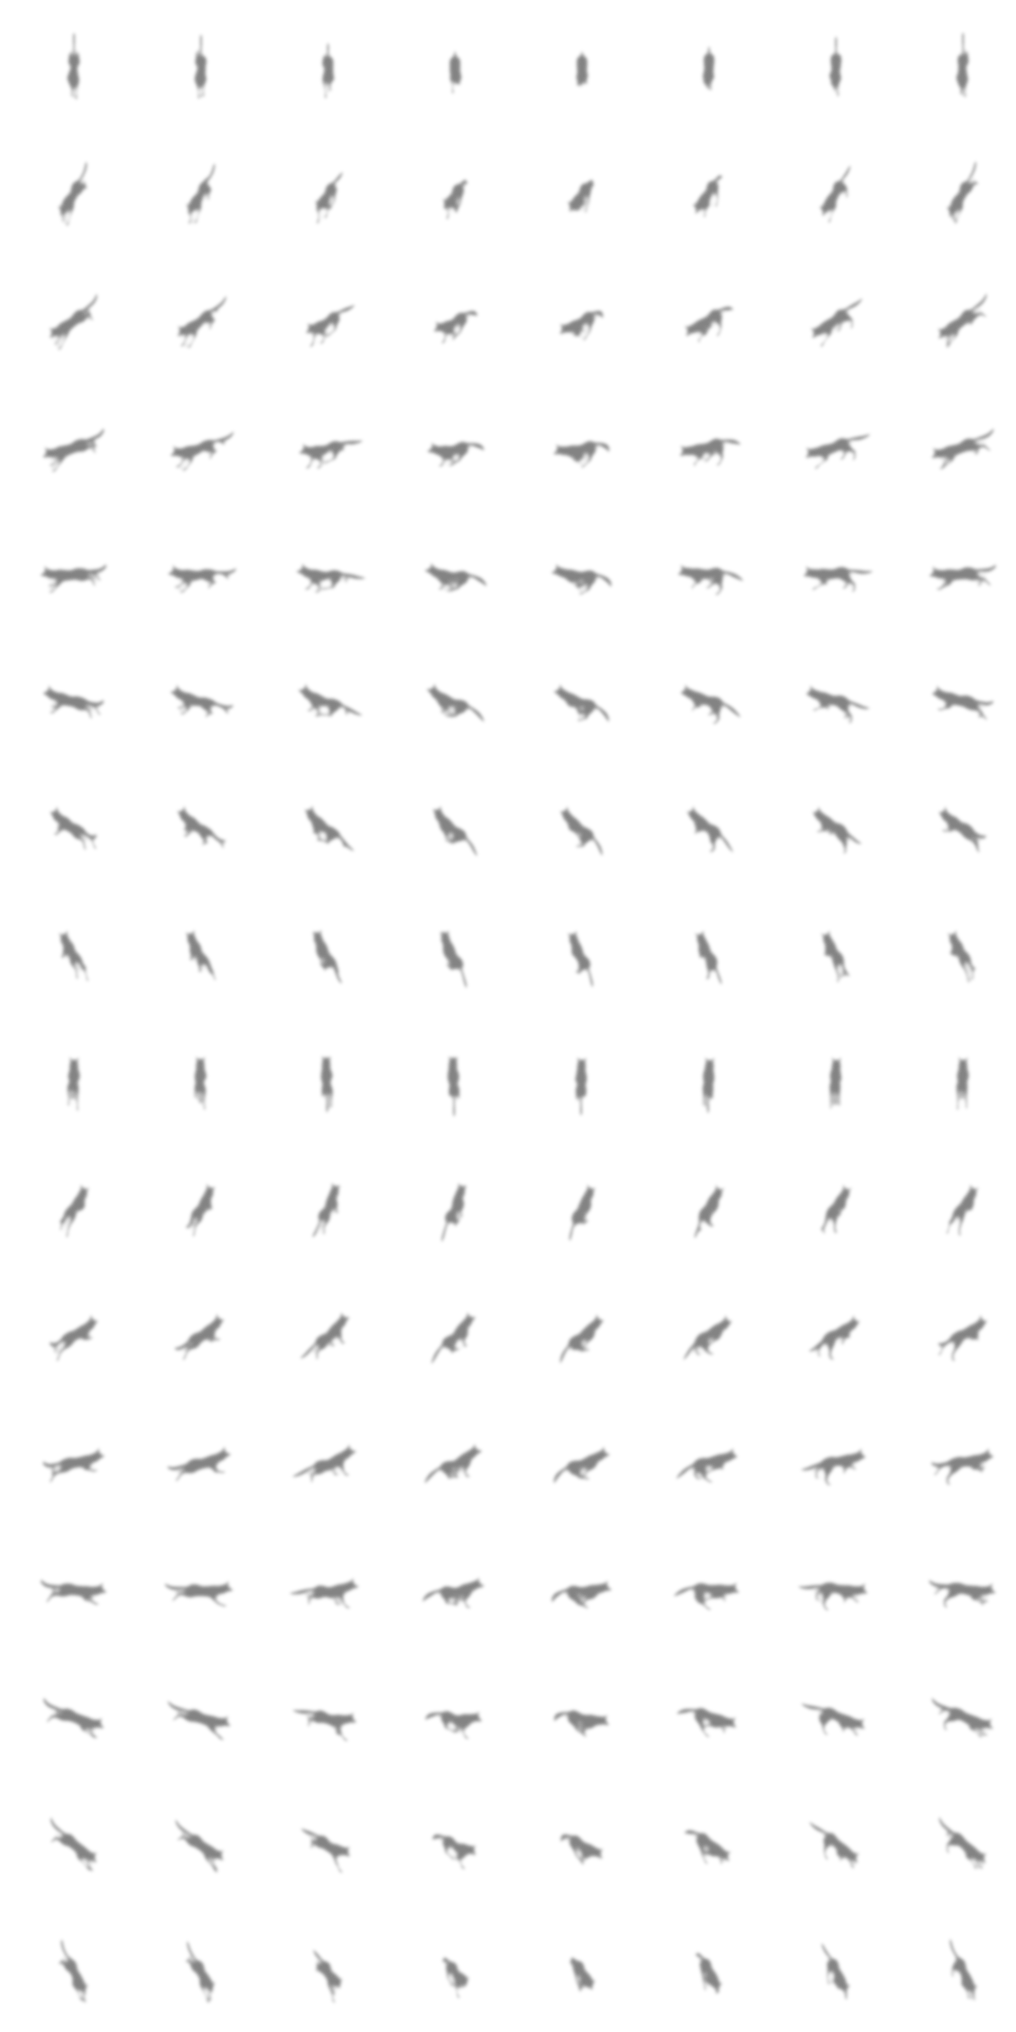
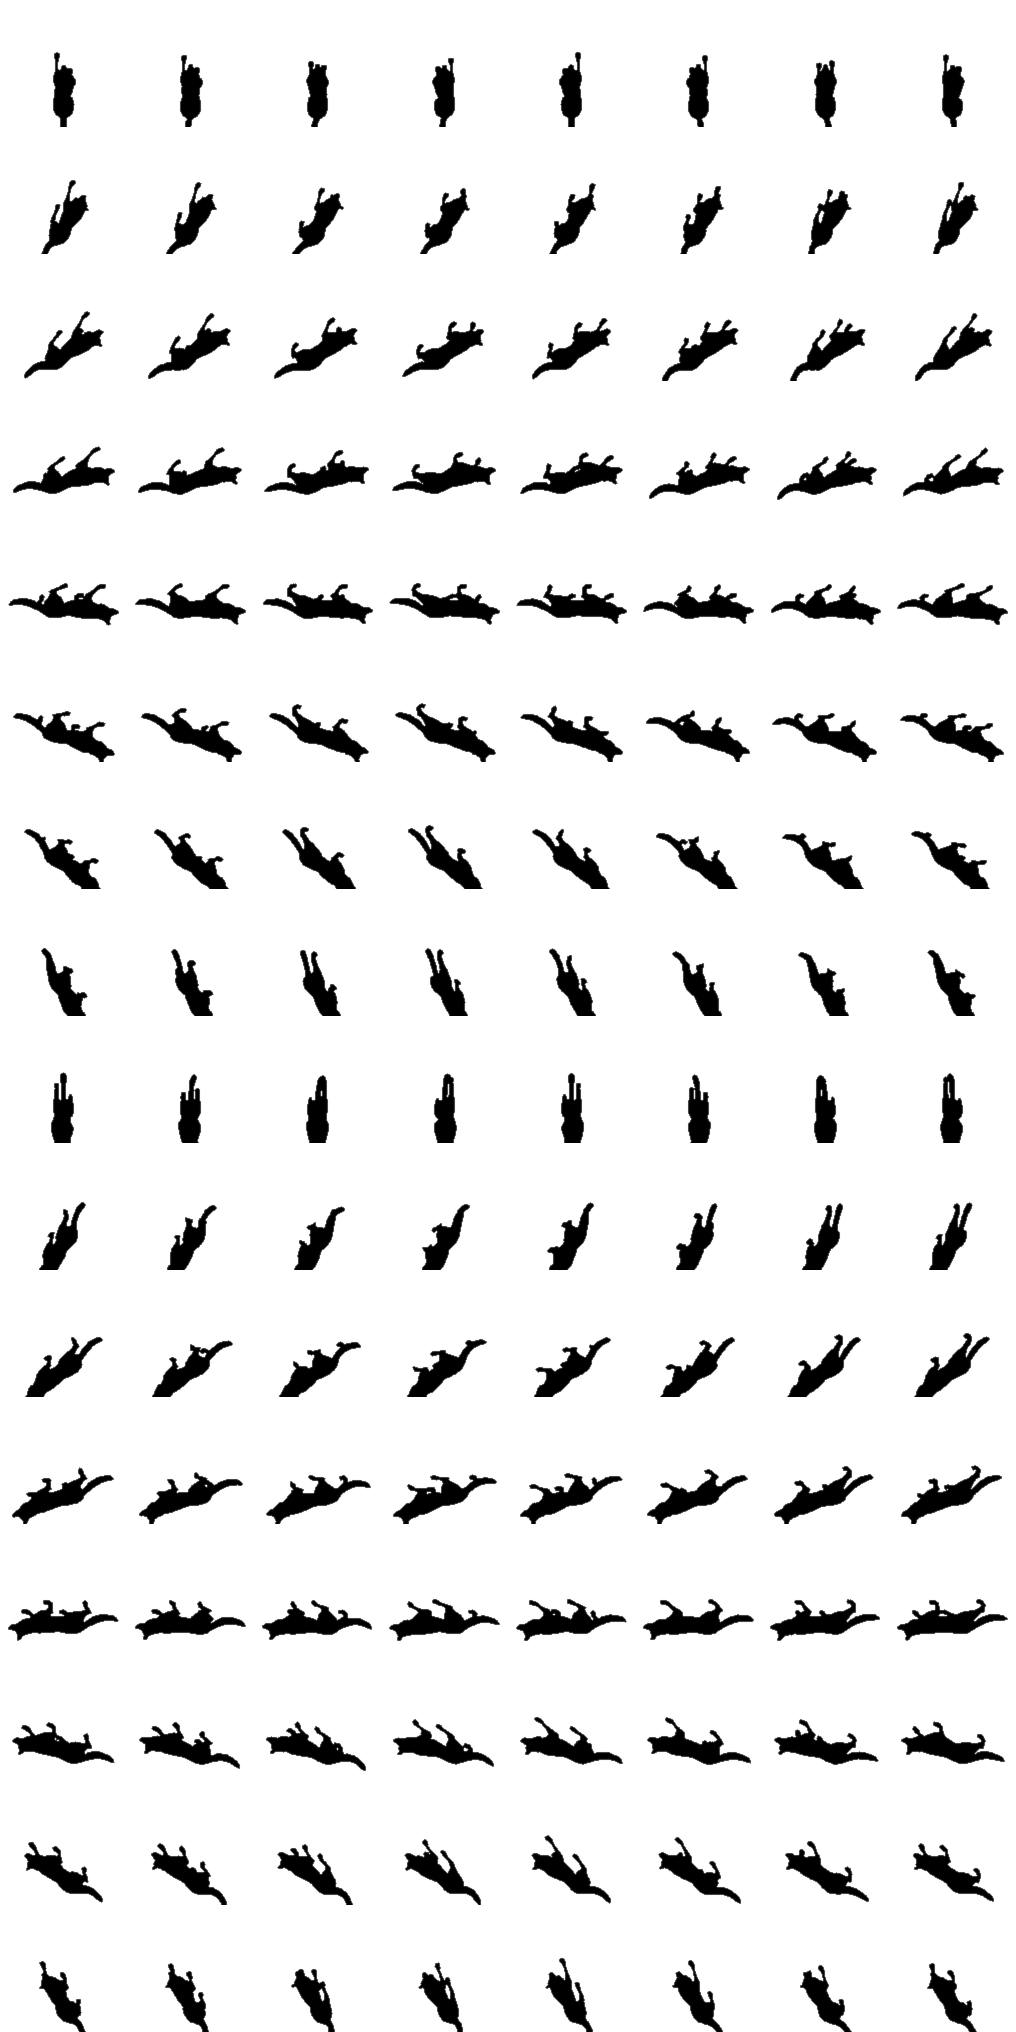
sd-wolf: real cast shadow, region-based fur color, bigger scale
Attack animation sheet, per-bone vertex-color tinting (tan legs, grey-brown
saddle, dark ears/tail tip) instead of a flat Z-gradient, a real Cycles
shadow-catcher render instead of a 2D silhouette shear (which misaligned
body parts), corrected cast direction and sizing to match vanilla biter art,
and a test scenario for side-by-side comparison with a biter.

diff --git a/docs/WINDOWS-HANDOFF.md b/docs/WINDOWS-HANDOFF.md
@@ -35,16 +35,18 @@
    `art/manifest.txt` — `git diff --stat graphics/` должен показать почти ноль изменений.
    Путь к игре (`GAME` в `import_art.py`, `art_preview.py`, `tools/portal_sheets.py`, тестах) — вынести
    в одну настройку: здесь Factorio стоит в Steam по Windows-пути.
-2. **Звери** (решение игрока 2026-09-27: свои, в нашем стиле, на RTX): картинка Codex (зверь сбоку, нейтральная
-   поза, стиль `docs/ART-STYLE.md`) → картинка в 3D на GPU (Hunyuan3D-2 / TRELLIS, режим под 12 ГБ) → авто-скелет
-   (UniRig или аналог) → бег и атака, перенесённые в Blender с анимированной модели с открытой лицензией (CC0,
-   напр. Quaternius; CC-BY — с автором в `README.md`) → Blender без окна (`blender -b -P script.py`): камера как
-   в Factorio (ортографическая, сверху под углом, свет слева сверху), 16 направлений, бег (8–16 кадров) и атака,
-   отдельная тень (`draw_as_shadow`). Листы → `graphics/entity/sd-<зверь>/`, подключение — ветка зверей в
-   `prototypes/art.lua` (сейчас один кадр на направление; расширить на `frame_count`). Сначала проба на
-   волке, лист кадров — игроку. Запасной путь, если скелет или перенос движения не выходят: готовая
-   анимированная модель целиком, текстура перекрашена под наш стиль.
-   Звери: волк, вожак (крупнее), кабан, секач (крупнее), медведь, медвежонок.
+2. **Звери** (решение игрока 2026-09-27: свои, в нашем стиле, на RTX). Полный авто-конвейер (Codex-фото →
+   3D-реконструкция → UniRig скелет+скин) не доехал: скелет получается нормальный, а веса скина у UniRig —
+   `NaN` на каждой вершине (баг апстрима, не наш; см. `sd-3d-animals/README.md`). **Рабочий путь, которым
+   реально сделан `sd-wolf`: мэш+риг+анимация готового CC0-донора (Quaternius) со своей перекраской по
+   вершинам**, камера и тень как в Factorio, 16 направлений × N кадров, отдельная честная тень (рендер в
+   Cycles через shadow catcher, не `draw_as_shadow`-трюк на плоском силуэте). Весь рецепт, параметры и
+   КАЖДАЯ грабля, на которую уже наступали (экспозиция, направление тени, материалы FBX, bound_box без позы
+   и т.д.) — **`sd-3d-animals/PIPELINE.md`, прочитать перед следующим зверем**. Production-скрипты там же:
+   `render_wolf_sheet.py` (рендер) + `compose_sheet.py` (сборка в лист). Листы → `graphics/entity/sd-<зверь>/`,
+   подключение — ветка зверей в `prototypes/art.lua` (`FRAMES`, `KIN`, `BOOST`).
+   Звери: волк — готов; вожак (крупнее) — тот же лист, другой масштаб; кабан, секач, медведь, медвежонок —
+   не начаты, нет подходящего реалистичного CC0/CC-BY донора (Gobkit слишком мультяшный).
 3. **Остальное с анимацией или поворотом** — тем же 3D-конвейером после зверей (сейчас перекрашенная ваниль
    или упрощённо):
    - манипуляторы `sd-lever-arm`, `sd-bronze-arm` (части руки: основание, рука, захват);
